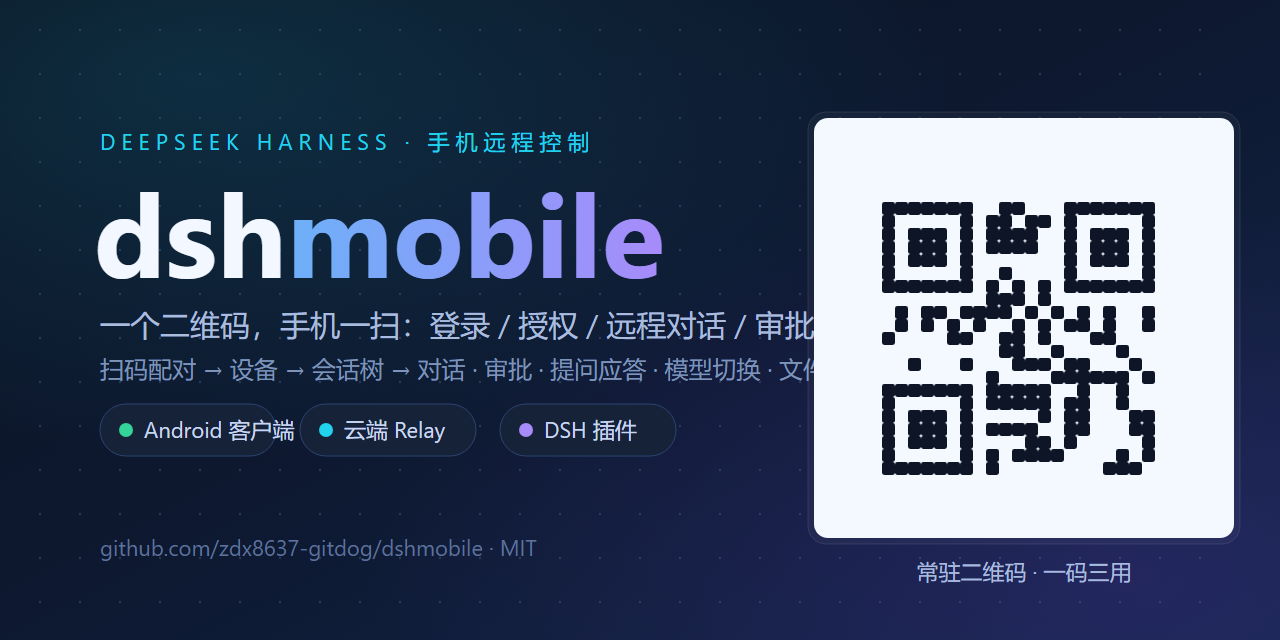
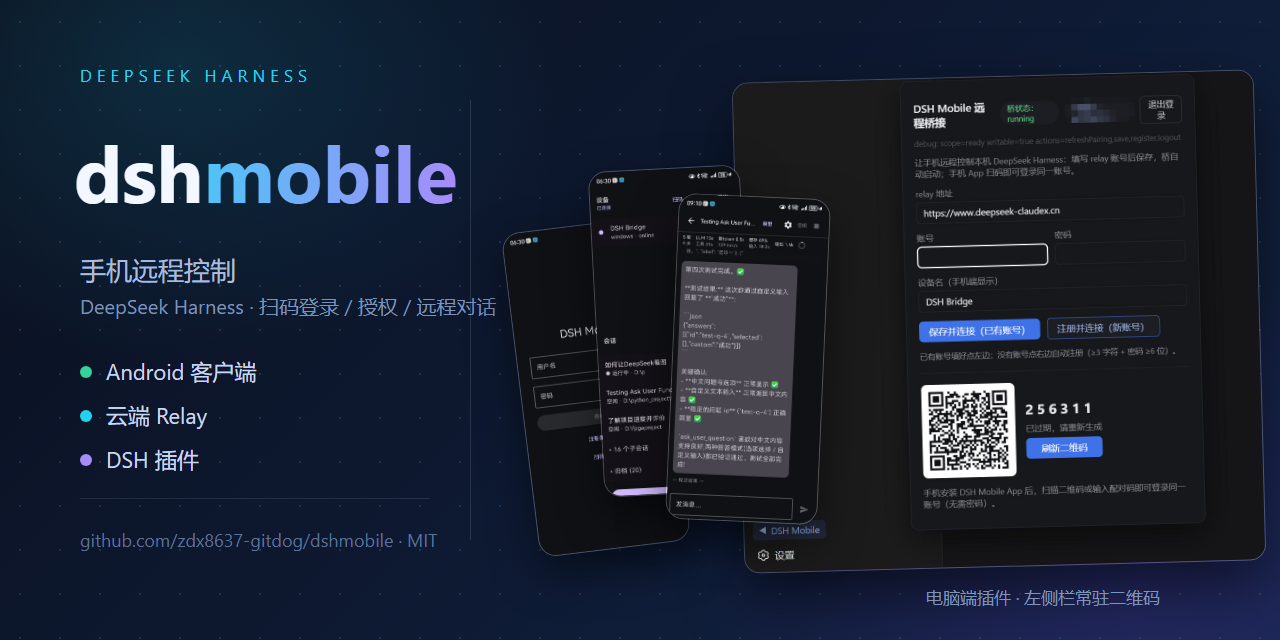
横幅 v2：改用真实截图叠层海报（插件面板主图 + 三张手机截图扇形叠放），HTML 源 + Edge 渲染 PNG

diff --git a/docs/images/banner.html b/docs/images/banner.html
@@ -1,13 +1,4 @@
-// 生成 docs/images/banner.html（1280×640 横幅源文件，用真实截图叠层排版）
-// 布局：左 = 文字区（品牌/卖点/三端），中缝分隔线，右 = 插件面板主图 + 三张手机截图扇形叠层
-// 用法: node gen-banner.mjs   → 再用 Edge 无头截图 banner.html 得 banner.png
-import { writeFileSync, mkdirSync } from 'node:fs'
-import { dirname, join } from 'node:path'
-import { fileURLToPath } from 'node:url'
-
-const here = dirname(fileURLToPath(import.meta.url))
-
-const html = `<!DOCTYPE html>
+<!DOCTYPE html>
 <html><head><meta charset="utf-8">
 <style>
   html, body { margin: 0; padding: 0; width: 1280px; height: 640px; overflow: hidden;
@@ -59,8 +50,4 @@ const html = `<!DOCTYPE html>
   <img class="phone p1" src="phone-1.jpg" alt=""/>
   <img class="phone p2" src="phone-2.jpg" alt=""/>
   <img class="phone p3" src="phone-3.jpg" alt=""/>
-</body></html>`
-
-mkdirSync(here, { recursive: true })
-writeFileSync(join(here, 'banner.html'), html)
-console.log('banner.html written')
+</body></html>
